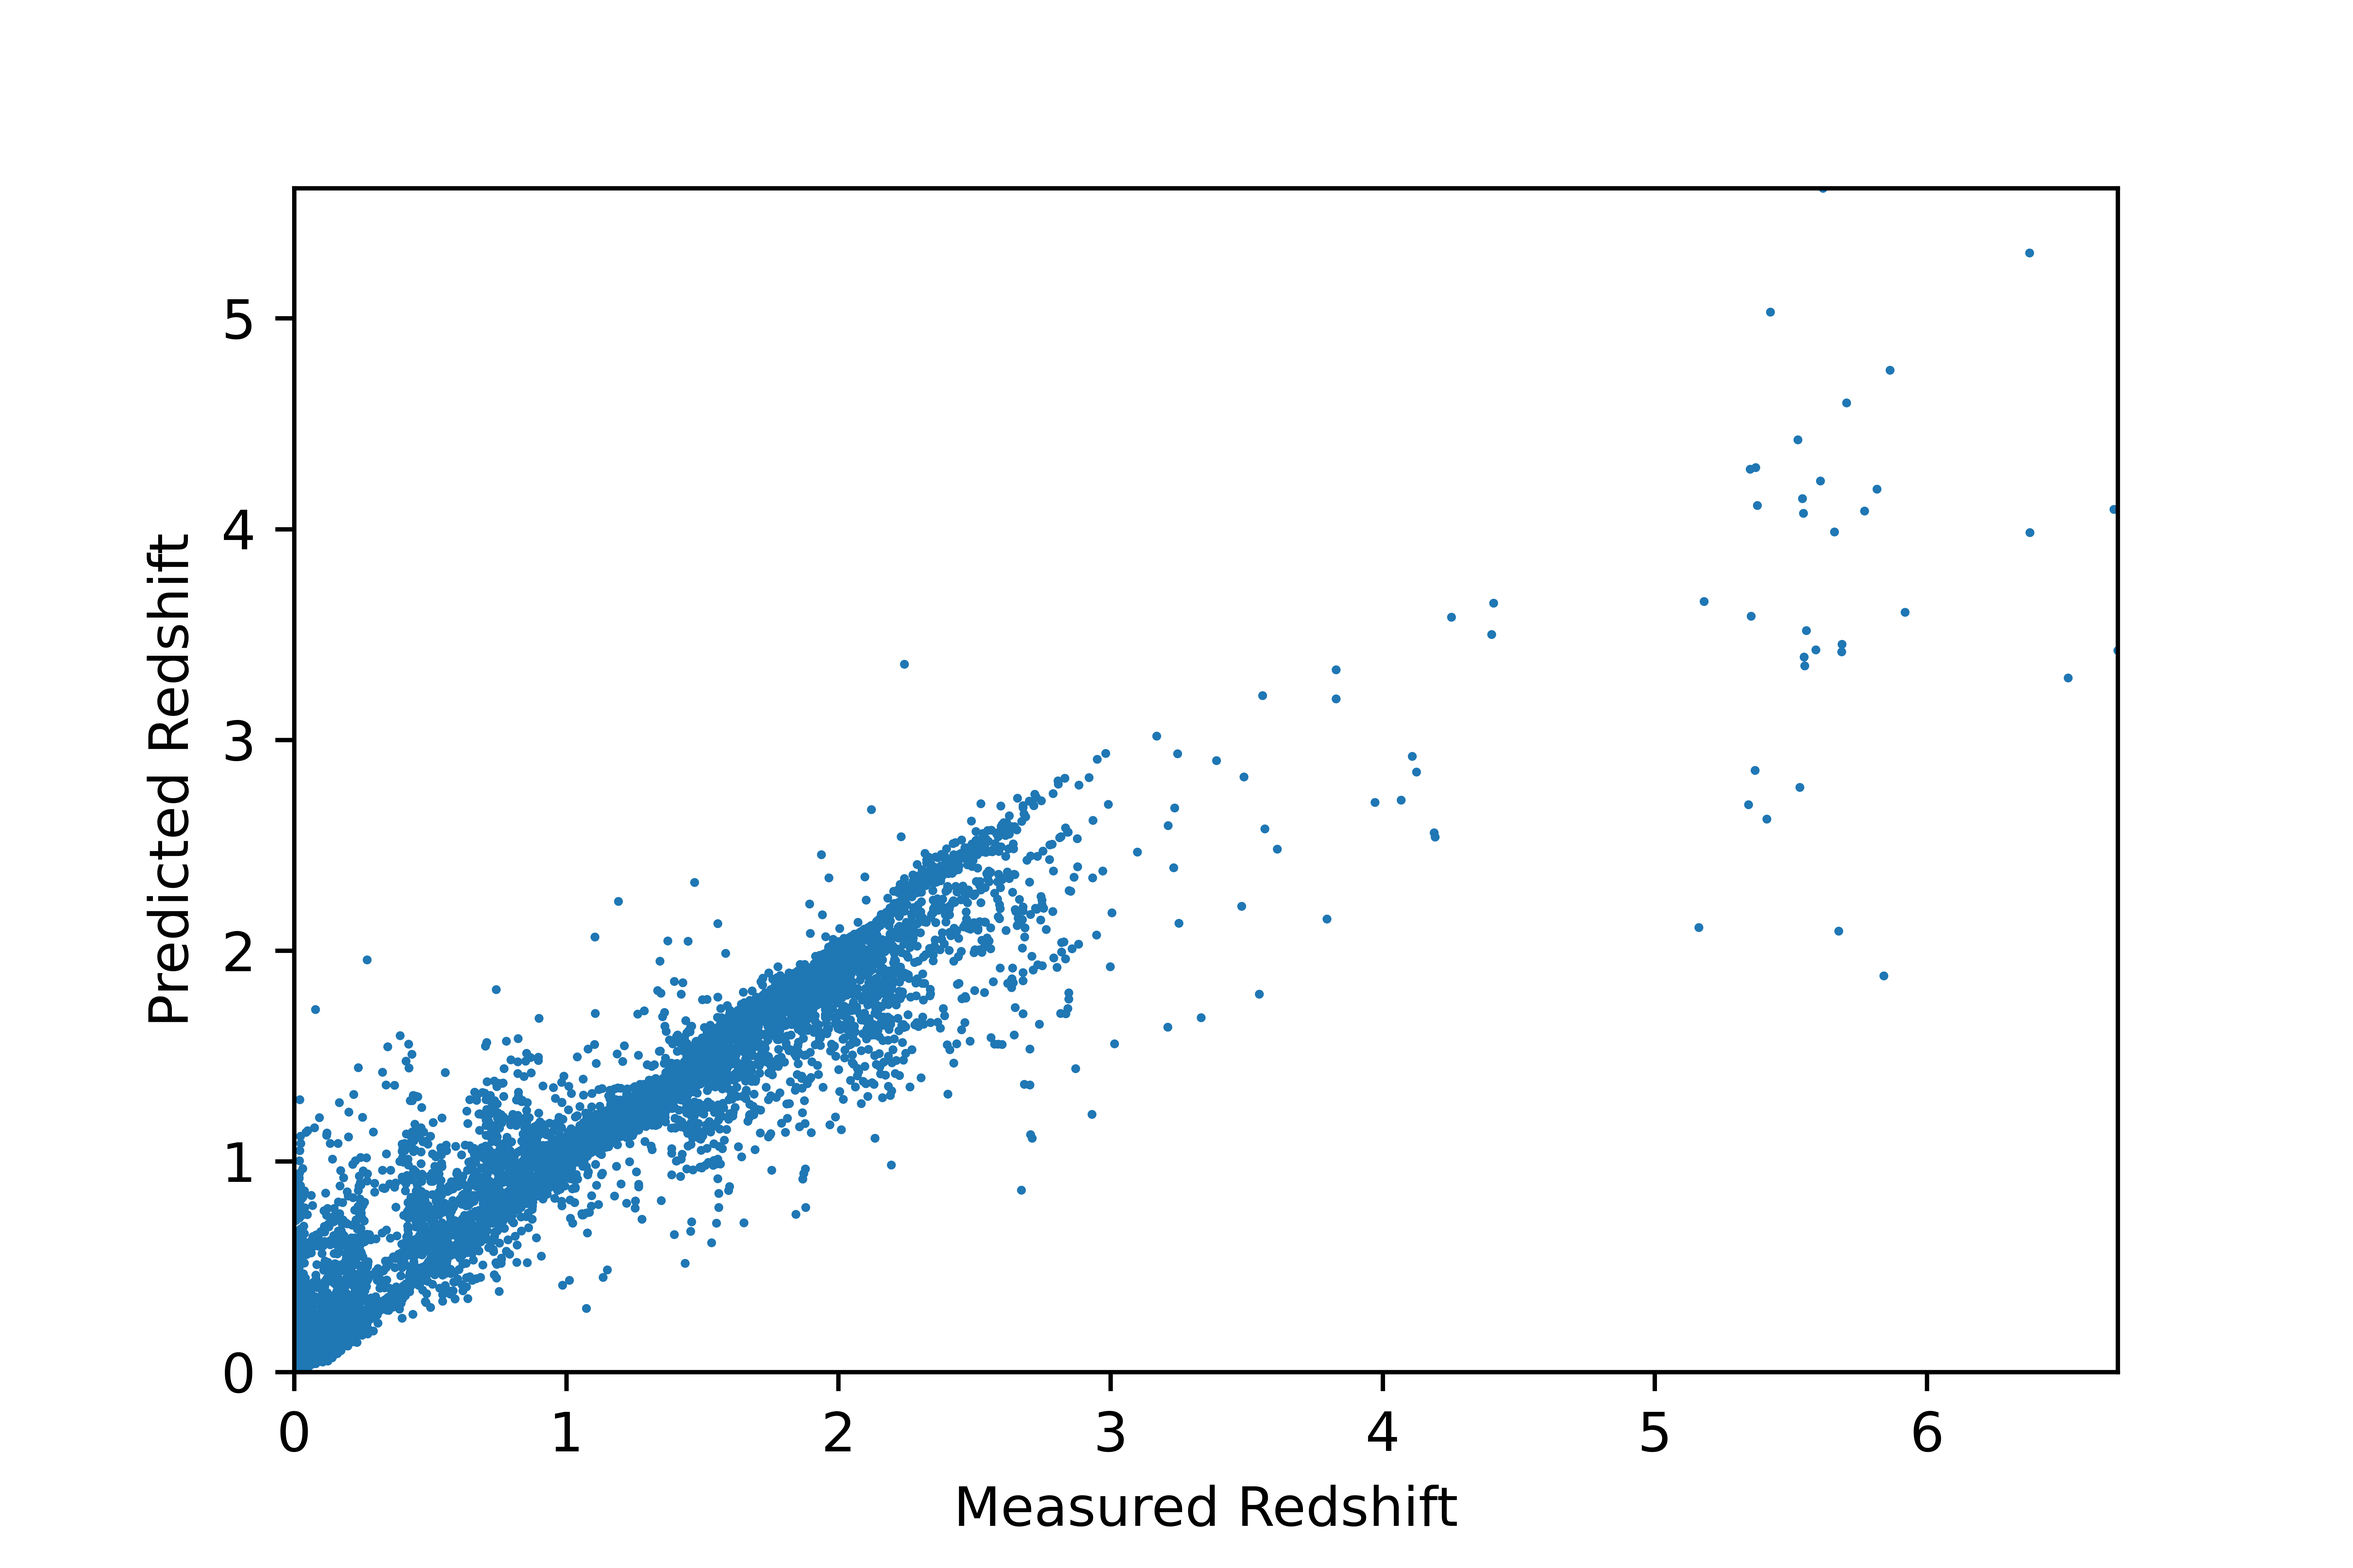
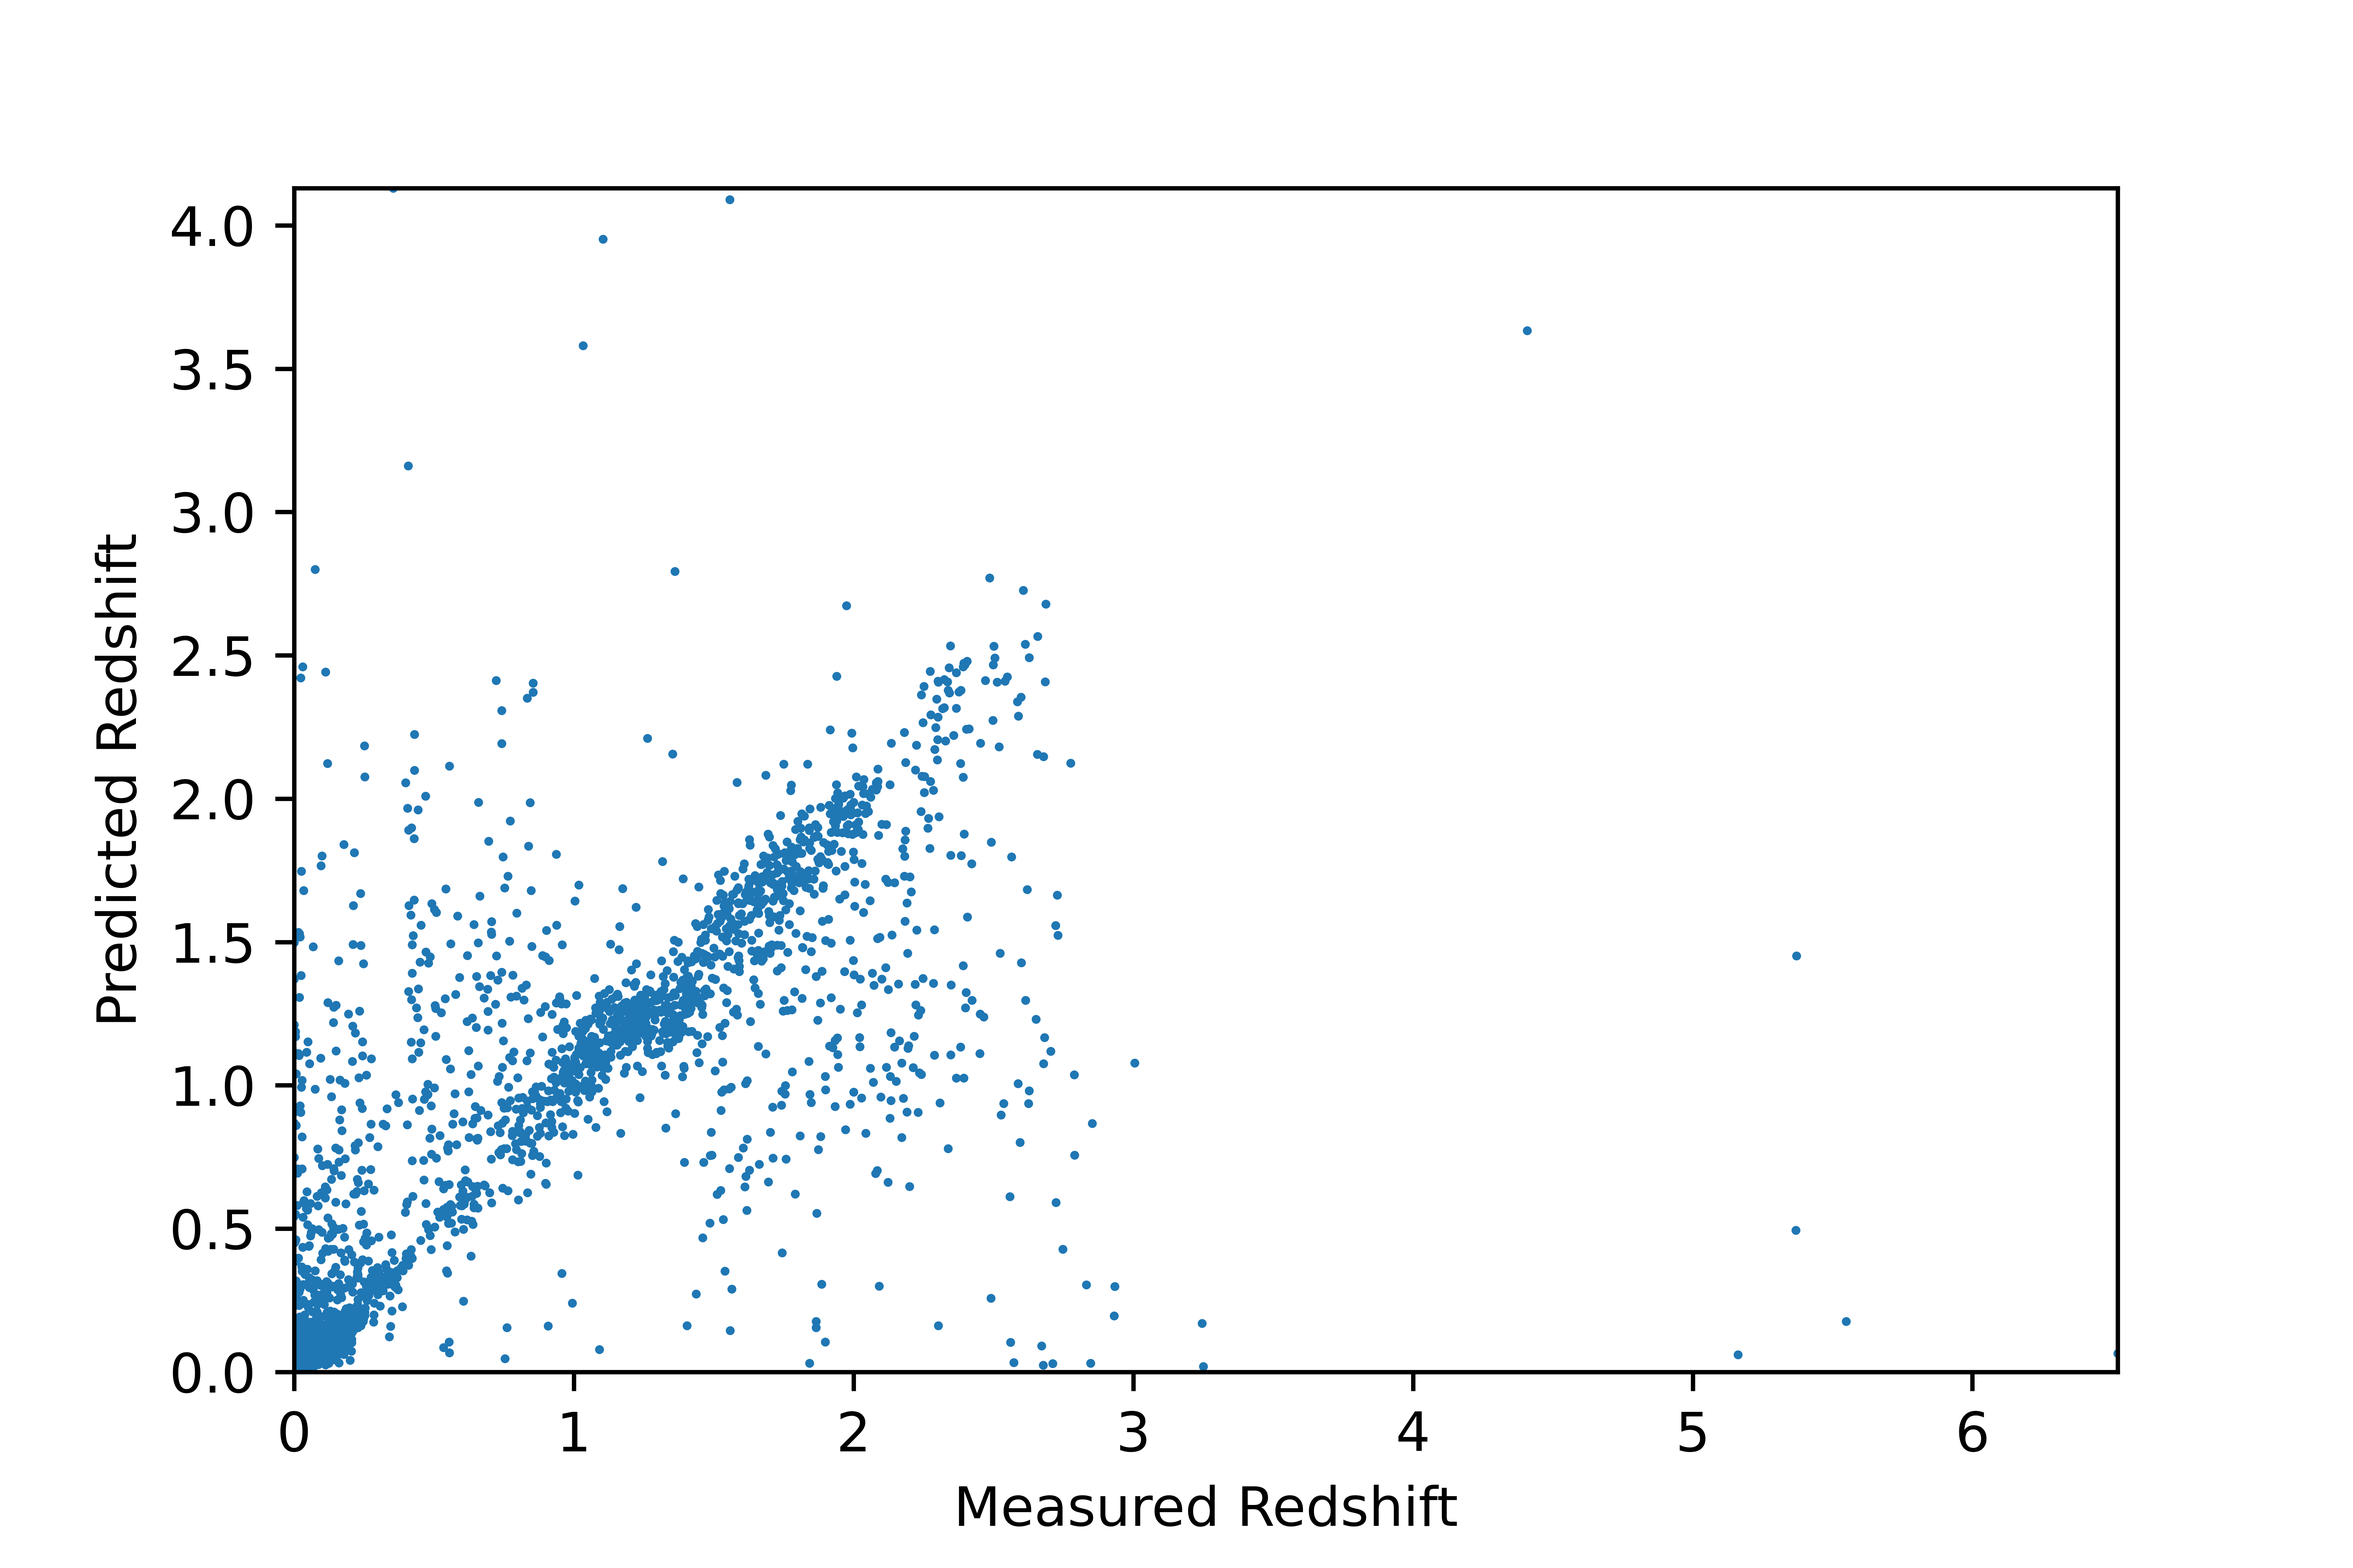
docs:update README

diff --git a/Utils/Random Forest For SDSS/Random Forest For SDSS.py b/Utils/Random Forest For SDSS/Random Forest For SDSS.py
@@ -14,34 +14,32 @@ features[:, 1] = data['g'] - data['r']
 features[:, 2] = data['r'] - data['i']
 features[:, 3] = data['i'] - data['z']
 targets = data['redshift']
+ #Splitting the dataset into the Training and Test set
+from sklearn.model_selection import train_test_split
+features_train, features_test, targets_train, targets_test = train_test_split(features,targets,test_size = 0.2, random_state = 0)
 
 # Training the Random Forest Regression model on the whole dataset
 from sklearn.ensemble import RandomForestRegressor
 regressor = RandomForestRegressor(n_estimators = 10, random_state = 0)
-regressor.fit(features, targets)
+regressor.fit(features_train, targets_train)
 
 # Predicting a new result
 from scipy.sparse import csr_matrix
 # A = csr_matrix([[features[:]]])
 # x=np.array(0.31476,0.0571,0.28991,0.07192)
-y_pred=regressor.predict(features)
-of=[]
-for i in range(0,49999):
-    of.append(np.abs(y_pred[i] - targets[i]))
-count=0    
-for j in of:
-    if(j>0.02):
-        count+=1
+y_pred=regressor.predict(features_test)
+
+      
         
-# Write a function that calculates the median of the differences between our predicted and actual values
+#Write a function that calculates the median of the differences between our predicted and actual values
 def median_diff(predicted, actual):
-  return np.median(np.abs(y_pred[:] - targets[:]))
-diff = median_diff(y_pred, targets)
+  return np.median(np.abs(y_pred[:] - targets_test[:]))
+diff = median_diff(y_pred, targets_test)
 print("Median difference: {:0.3f}".format(diff))
 
 # plot the results to see how well our model looks
-plt.scatter(targets, y_pred, s=0.4)
-plt.xlim((0, targets.max()))
+plt.scatter(targets_test, y_pred, s=0.4)
+plt.xlim((0, targets_test.max()))
 plt.ylim((0, y_pred.max()))
 plt.xlabel('Measured Redshift')
 plt.ylabel('Predicted Redshift')
